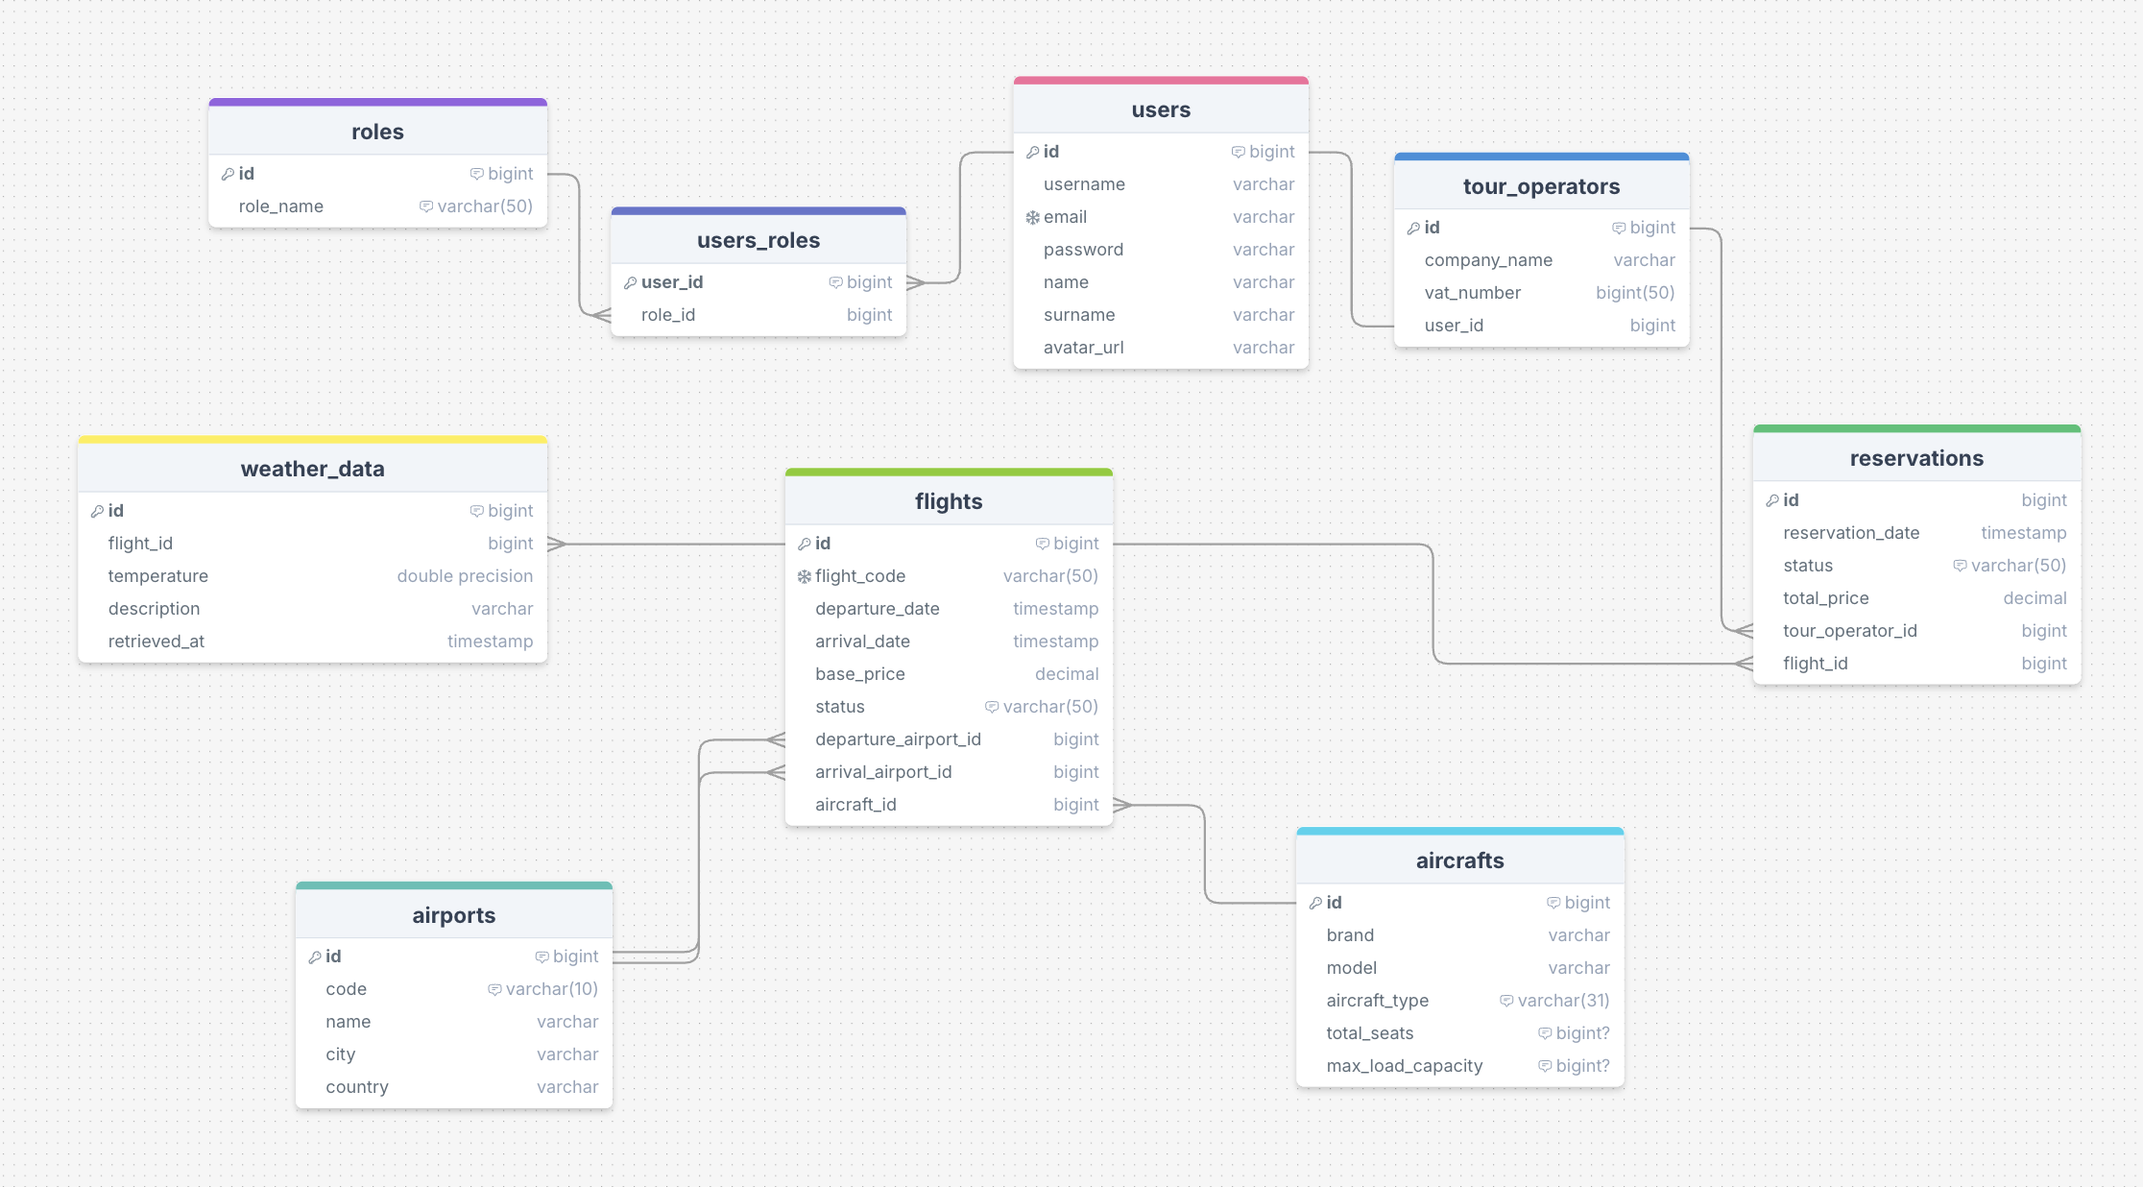
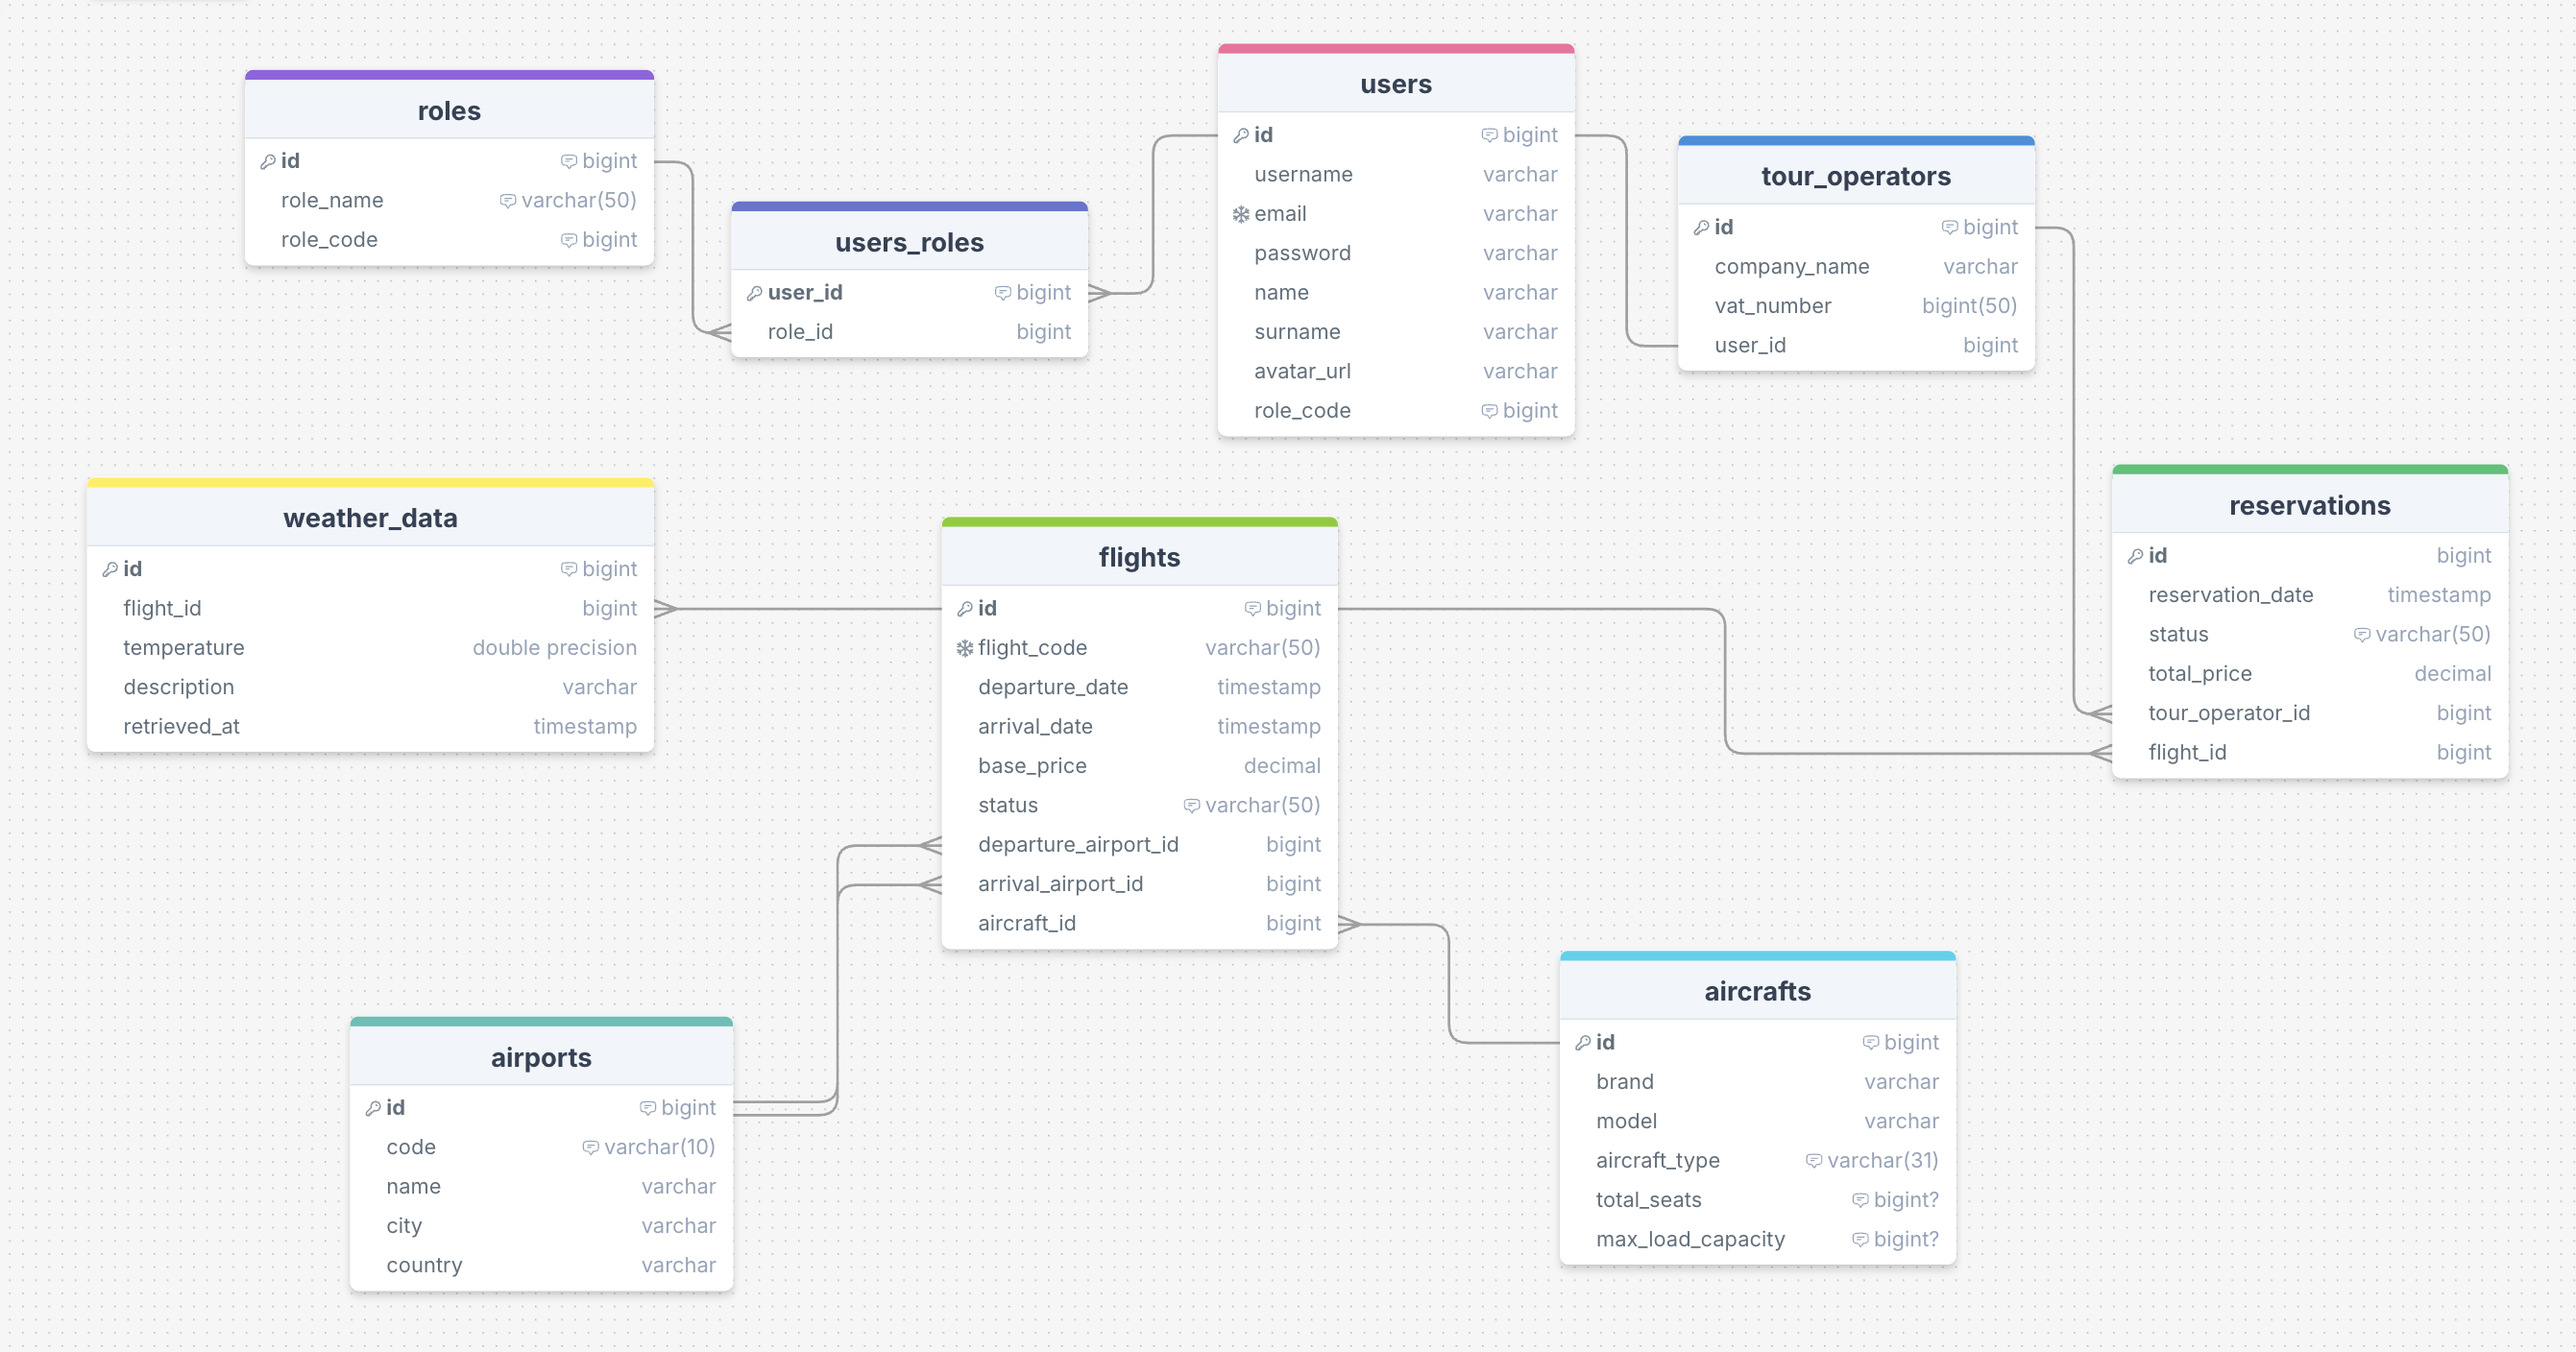
feat(roles): add role codes to user and role entities
- Add role code field to Role and User entities
- Update RoleType enum to include code values
- Modify UserService and DataInitializer to handle role codes
- Update Postman collection to include auth for List Roles endpoint

diff --git a/src/main/java/bluesky/airline/config/DataInitializer.java b/src/main/java/bluesky/airline/config/DataInitializer.java
@@ -40,6 +40,7 @@ public class DataInitializer {
             users.findByEmailIgnoreCase(adminEmail).orElseGet(() -> {
                 User admin = new User(null, "Admin", adminEmail);
                 admin.setPassword(encoder.encode(adminPassword));
+                admin.setRoleCode(RoleType.ADMIN.getCode());
                 Role adminRole = roles.findByNameIgnoreCase(RoleType.ADMIN.name()).orElseThrow();
                 admin.setRoles(new java.util.HashSet<>(Set.of(adminRole)));
                 return users.save(admin);
@@ -49,10 +50,11 @@ public class DataInitializer {
 
     // Ensure a role exists, creating it if not
     private void ensureRole(RoleType roleType) {
-        roles.findByNameIgnoreCase(roleType.name()).orElseGet(() -> {
-            Role r = new Role();
+        Role r = roles.findByNameIgnoreCase(roleType.name()).orElse(new Role());
+        if (r.getId() == null) {
             r.setName(roleType.name());
-            return roles.save(r);
-        });
+        }
+        r.setRoleCode(roleType.getCode());
+        roles.save(r);
     }
 }

diff --git a/src/main/java/bluesky/airline/services/UserService.java b/src/main/java/bluesky/airline/services/UserService.java
@@ -84,6 +84,7 @@ public class UserService {
             java.util.Set<Role> rs = new java.util.HashSet<>();
             rs.add(r);
             u.setRoles(rs);
+            u.setRoleCode(r.getRoleCode());
         }
         return repo.save(u);
     }
@@ -104,6 +105,7 @@ public class UserService {
             java.util.Set<Role> rs = new java.util.HashSet<>();
             rs.add(r);
             u.setRoles(rs);
+            u.setRoleCode(roleCode);
         }
         return repo.save(u);
     }
@@ -135,6 +137,7 @@ public class UserService {
                 java.util.Set<Role> rs = new java.util.HashSet<>();
                 rs.add(r);
                 existing.setRoles(rs);
+                existing.setRoleCode(r.getRoleCode());
             }
             return repo.save(existing);
         });

diff --git a/src/main/java/bluesky/airline/entities/User.java b/src/main/java/bluesky/airline/entities/User.java
@@ -36,6 +36,9 @@ public class User extends BaseUuidEntity {
     @JsonIgnore
     private String password;
 
+    @Column(name = "role_code")
+    private Integer roleCode;
+
     // Many-to-Many: a user can have multiple roles and a role can belong to
     // multiple users
     @ManyToMany(fetch = FetchType.LAZY)
@@ -106,6 +109,14 @@ public class User extends BaseUuidEntity {
 
     public void setPassword(String password) {
         this.password = password;
+    }
+
+    public Integer getRoleCode() {
+        return roleCode;
+    }
+
+    public void setRoleCode(Integer roleCode) {
+        this.roleCode = roleCode;
     }
 
     public Set<Role> getRoles() {

diff --git a/src/main/java/bluesky/airline/entities/Role.java b/src/main/java/bluesky/airline/entities/Role.java
@@ -12,6 +12,9 @@ public class Role extends BaseUuidEntity {
     @Column(name = "role_name", nullable = false, unique = true)
     private String name;
 
+    @Column(name = "role_code", nullable = false)
+    private Integer roleCode;
+
     public UUID getId() {
         return super.getId();
     }
@@ -26,5 +29,13 @@ public class Role extends BaseUuidEntity {
 
     public void setName(String name) {
         this.name = name;
+    }
+
+    public Integer getRoleCode() {
+        return roleCode;
+    }
+
+    public void setRoleCode(Integer roleCode) {
+        this.roleCode = roleCode;
     }
 }

diff --git a/src/main/java/bluesky/airline/entities/enums/RoleType.java b/src/main/java/bluesky/airline/entities/enums/RoleType.java
@@ -2,7 +2,17 @@ package bluesky.airline.entities.enums;
 
 // Enum for User roles
 public enum RoleType {
-    ADMIN,
-    TOUR_OPERATOR,
-    FLIGHT_MANAGER
+    ADMIN(0),
+    FLIGHT_MANAGER(1),
+    TOUR_OPERATOR(2);
+
+    private final int code;
+
+    RoleType(int code) {
+        this.code = code;
+    }
+
+    public int getCode() {
+        return code;
+    }
 }
